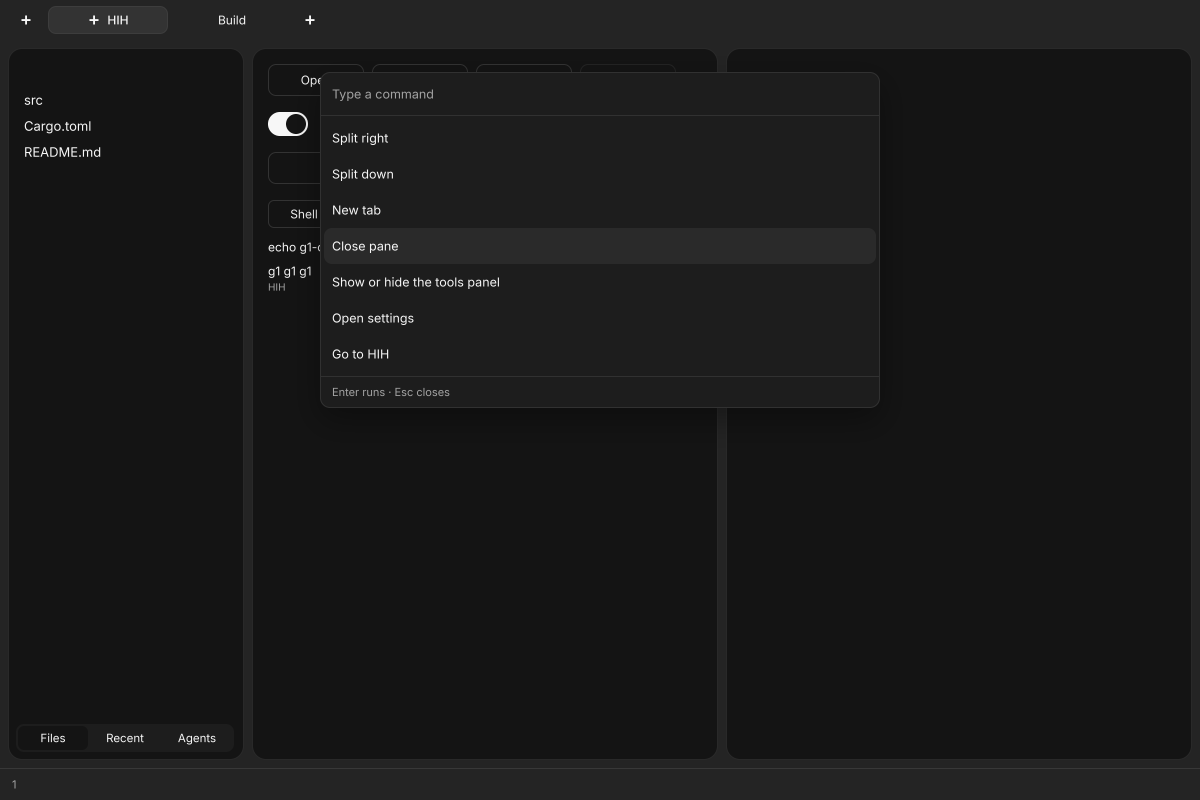
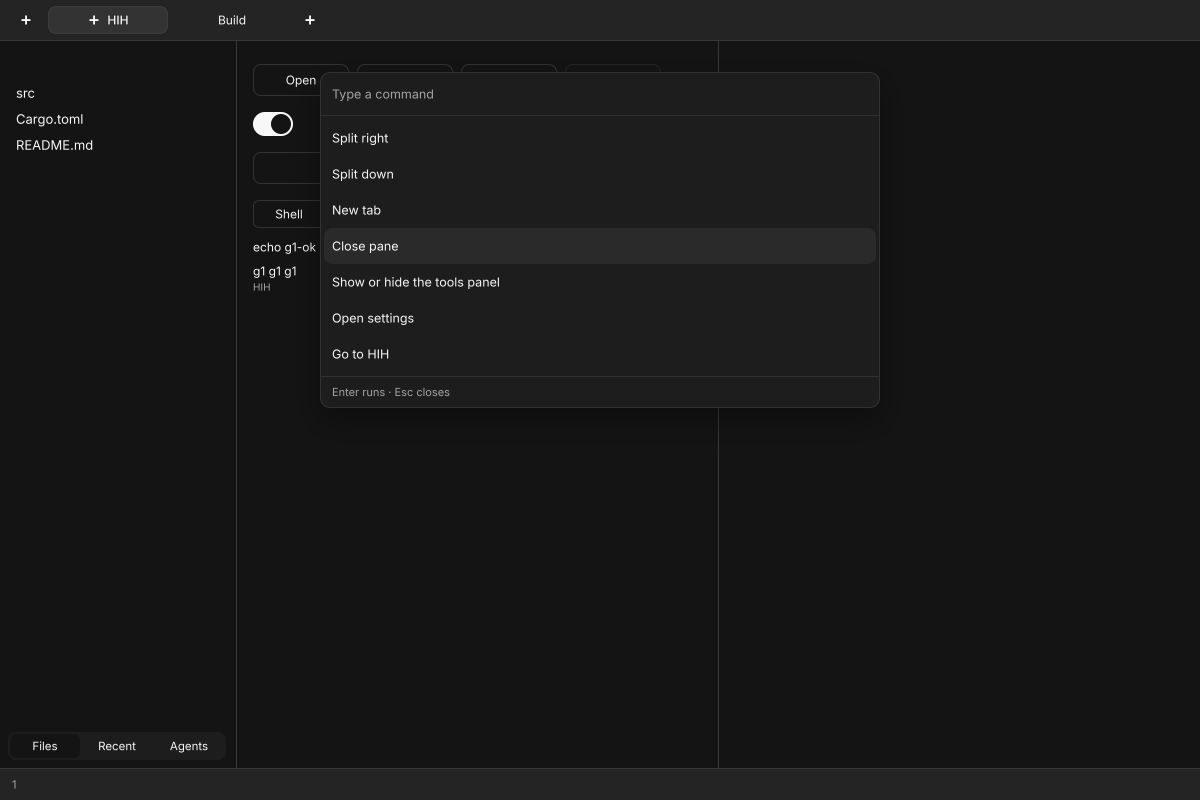
Find bar: flush-layout tokens, the popover shadow at its real blur, fresh fixtures
After merging gpui-g2's flush panes, PANE_MARGIN is gone: the popover's window
margin and the find bar's inset from the pane's corner are now SPACE_8, the 8 px
today's bar sits in from the pane's right edge.

The popover passed the rulebook's CSS blur (32) to gpui's blur_radius, which is
the Gaussian's standard deviation, so the shadow spread twice as far as the
rulebook's 0 12 32 profile. It now passes blur / 2, as the completion list's
branch does; the find bar's shadow check went from 5.7 grey levels off to 0.5.

The floating gate's simulated fixtures are redrawn for the flush main window
(python3 scripts/floating/write_fixtures.py --out-dir scripts/floating/fixtures).

diff --git a/crates/clanky-gpui/src/tokens.rs b/crates/clanky-gpui/src/tokens.rs
@@ -256,6 +256,12 @@ impl ShadowToken {
     pub fn color(&self) -> Color {
         [0, 0, 0, (self.opacity * 255.0).round() as u8]
     }
+
+    /// The Gaussian's standard deviation, which is what gpui's `blur_radius` takes: a CSS blur radius, as the
+    /// rulebook writes shadows, is twice the standard deviation.
+    pub fn sigma(&self) -> f32 {
+        self.blur / 2.0
+    }
 }
 /// Menus, the palette, the completion list and dialogs.
 pub const SHADOW_POPOVER: ShadowToken = ShadowToken {
@@ -276,14 +282,14 @@ pub const SHADOW_TOOLBAR: ShadowToken = ShadowToken {
 /// The room between a popover and what opened it: next to it, never touching or covering it.
 pub const POPOVER_OPENER_GAP: f32 = SPACE_4;
 /// How close a popover may come to the window's edge.
-pub const POPOVER_WINDOW_MARGIN: f32 = PANE_MARGIN;
+pub const POPOVER_WINDOW_MARGIN: f32 = SPACE_8;
 /// The room between a popover's edge and its rows: the rows' radius is one step below the popover's.
 pub const POPOVER_PADDING: f32 = SPACE_4;
 /// The pane's find bar, a popover over the pane's top right corner: as wide as the find bar it replaces (calm
 /// `scene.rs` `find_bar`, 360), with a field (`FIELD_HEIGHT`) and bar icon buttons (`ICON_BUTTON_HEIGHT_BAR`).
 pub const FIND_BAR_WIDTH: f32 = 360.0;
-/// How far the find bar sits in from the pane's top and right edges: the pane margin.
-pub const FIND_BAR_INSET: f32 = PANE_MARGIN;
+/// How far the find bar sits in from the pane's top and right edges, as today's bar sits in from the right.
+pub const FIND_BAR_INSET: f32 = SPACE_8;
 /// Between the find bar's field and its buttons, and between the buttons.
 pub const FIND_BAR_GAP: f32 = SPACE_4;
 /// A field's caret: one device pixel wide, as tall as `text_ui` with a pixel of room above and below.

diff --git a/crates/clanky-gpui/src/popover.rs b/crates/clanky-gpui/src/popover.rs
@@ -305,7 +305,7 @@ impl Popover {
             .shadow(vec![gpui::BoxShadow {
                 color: paint(shadow.color(), 1.0).into(),
                 offset: point(px(0.0), px(shadow.offset_y)),
-                blur_radius: px(shadow.blur),
+                blur_radius: px(shadow.sigma()),
                 spread_radius: px(0.0),
                 inset: false,
             }])
